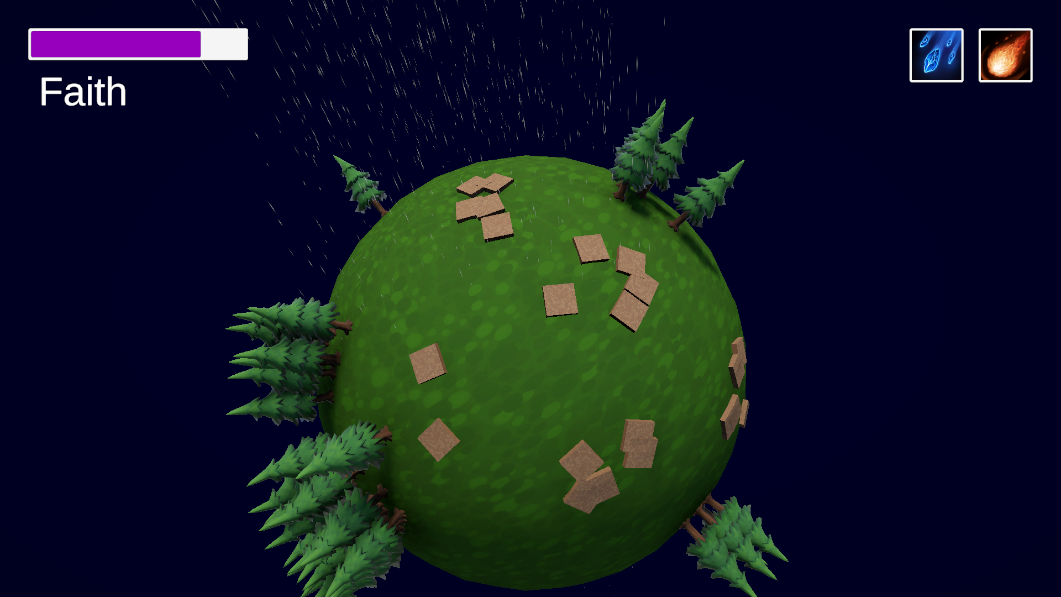
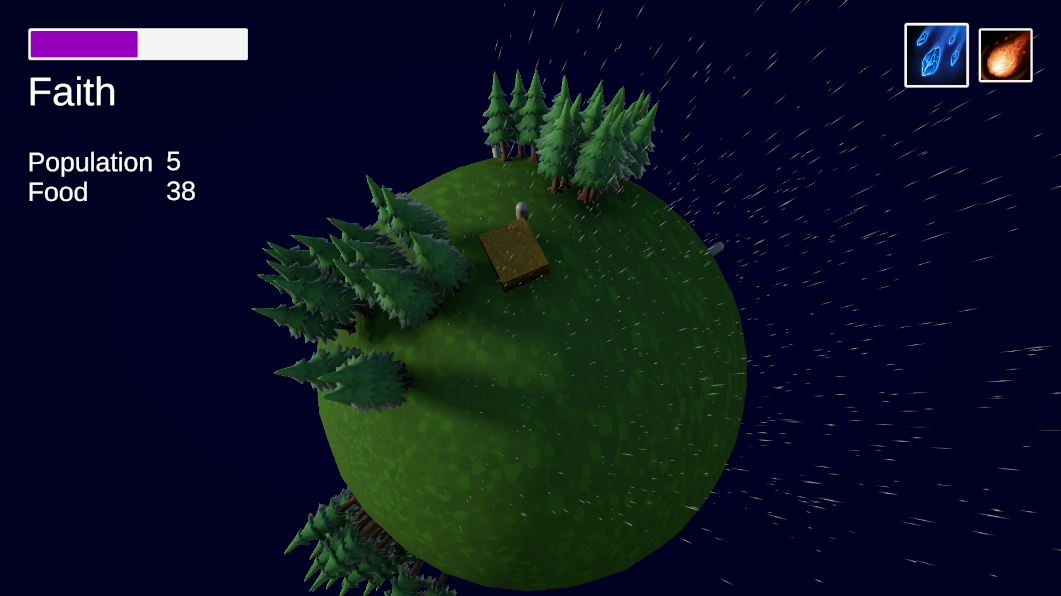
Update farm growth simulation

diff --git a/Assets/Scripts/Farm.cs b/Assets/Scripts/Farm.cs
@@ -1,6 +1,7 @@
 using System.Collections;
 using EventBus;
 using Events;
+using Unity.VisualScripting;
 using UnityEngine;
 
 public class Farm : AbstractSpawnable, IDestructible
@@ -14,29 +15,41 @@ public class Farm : AbstractSpawnable, IDestructible
         Bus<RainEvent>.OnEvent += OnRainEvent;
     }
 
-    private void OnRainEvent(RainEvent evt)
+    private void OnDestroy()
     {
-        if (Vector3.Distance(evt.Location, transform.position) < 0.25f)
-            Water();
+        Bus<RainEvent>.OnEvent -= OnRainEvent;
     }
 
-    private void Water()
+    private void OnRainEvent(RainEvent evt)
     {
-        if (_growCoroutine != null) return;
-
-        _growCoroutine = StartCoroutine(GrowCrops()); // simulate growth delay
+        if (Vector3.Distance(evt.Location, transform.position) < 0.25f && _growCoroutine == null)
+            _growCoroutine = StartCoroutine(GrowCrops());
     }
 
     private IEnumerator GrowCrops()
     {
+        // simulate crop growth
         _meshRenderer.material.color = Color.green;
-        yield return new WaitForSeconds(5f); // simulate growth time
+        float startTime = Time.time;
+        float growthTime = 5f; // simulate growth time
+        Vector3 initialScale = transform.localScale;
+        Vector3 targetScale = new Vector3(initialScale.x, initialScale.y * 5f, initialScale.z); // simulate wheat growth
+        while (Time.time < startTime + growthTime)
+        {
+            float t = (Time.time - startTime) / growthTime;
+            transform.localScale = Vector3.Lerp(initialScale, targetScale, t);
+            _meshRenderer.material.color = Color.Lerp(Color.green, Color.yellow, t);
+            yield return null;
+        }
 
         _meshRenderer.material.color = Color.yellow;
         yield return new WaitForSeconds(2f); // simulate harvest time
 
         int food = Random.Range(3, 6); // crop yield
         Bus<FoodProducedEvent>.Raise(new FoodProducedEvent(food));
+
+        // reset scale and color
+        transform.localScale = initialScale;
         _meshRenderer.material.color = Color.white;
         _growCoroutine = null;
     }
